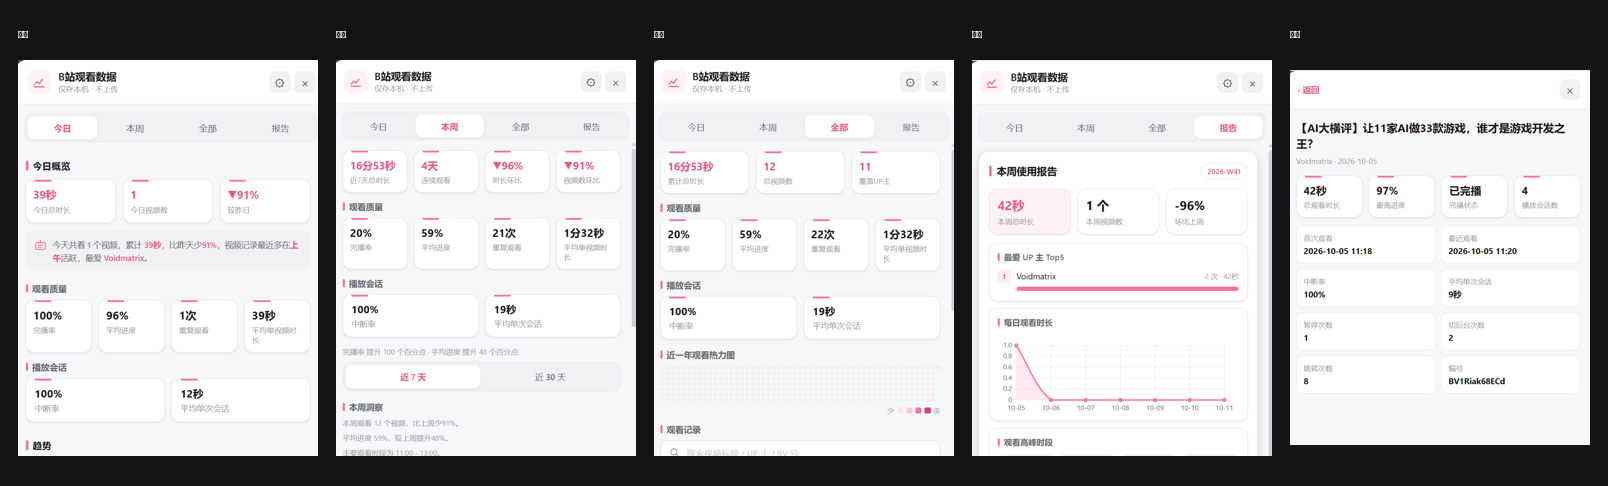
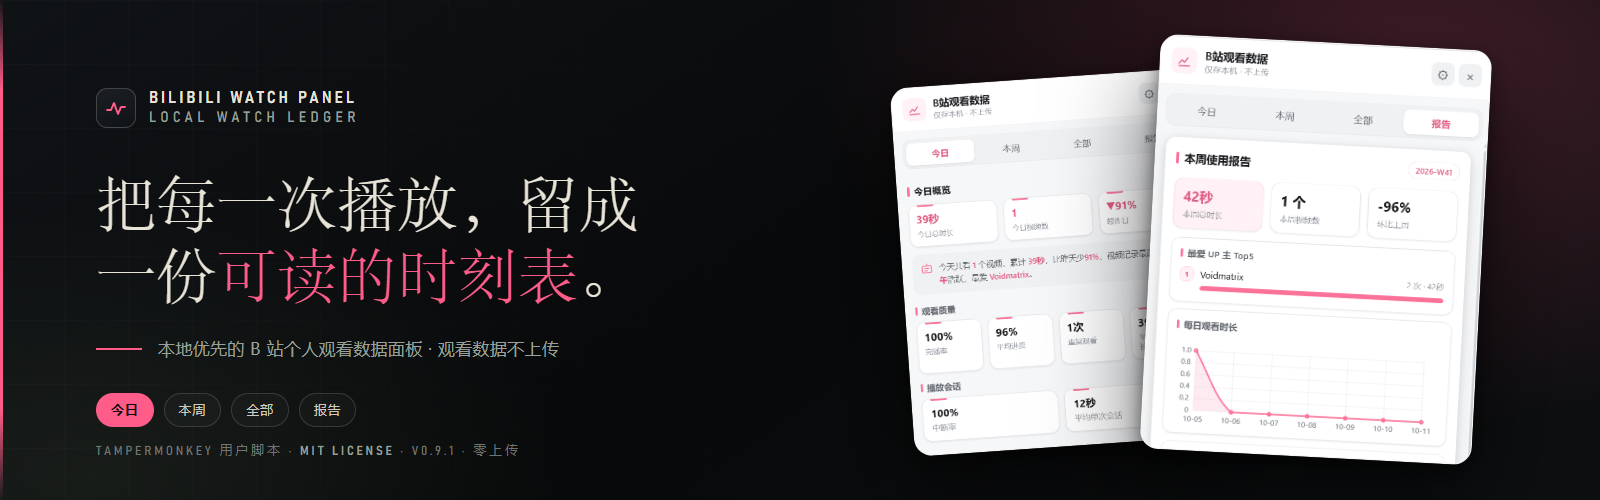
docs: 重写插件项目自述并替换横幅

diff --git a/README.md b/README.md
@@ -1,12 +1,6 @@
 <p align="center">
-  <img src="./docs/assets/banner.png?v=20261005" alt="Bilibili Watch Panel 项目封面">
-</p>
-
-# Bilibili Watch Panel
-
-<p align="center">
-  <strong>本地优先的 B 站个人观看数据面板</strong><br>
-  在不上传观看数据的前提下，记录观看行为、分析观看质量，并生成一份可读的本周使用报告。
+  <strong>Bilibili Watch Panel</strong><br>
+  本地优先的 B 站观看数据统计与可视化 Tampermonkey 用户脚本
 </p>
 
 <p align="center">
@@ -17,192 +11,135 @@
 </p>
 
 <p align="center">
-  <a href="https://gavin-gwj.github.io/bilibili-watch-panel/">在线预览</a> ·
-  <a href="https://bilibili-watch-panel.liuyigavin2025.workers.dev">Cloudflare 备用地址</a> ·
-  <a href="./bilibili-watch-panel.user.js">查看用户脚本</a> ·
+  <a href="https://gavin-gwj.github.io/bilibili-watch-panel/">在线展示</a> ·
+  <a href="https://bilibili-watch-panel.liuyigavin2025.workers.dev">备用展示地址</a> ·
+  <a href="./bilibili-watch-panel.user.js">安装脚本</a> ·
   <a href="./CHANGELOG.md">版本记录</a>
 </p>
 
 ---
 
-## 这是什么？
+## 项目简介
 
-Bilibili Watch Panel 是一个**纯本地运行的 Tampermonkey 用户脚本**。它把分散在 B 站观看过程中的信息，整理成一个轻量的侧边数据面板：
+Bilibili Watch Panel 是一个运行在 B 站页面上的 Tampermonkey 用户脚本。它会记录你实际观看视频时的播放进度，并在浏览器本地整理成可查询的观看档案。
 
-- 看了多久：今日、本周、全部累计时长（含番剧、课程）
-- 看了什么：视频数量、分 P / 分集记录、近一年观看热力图
-- 看谁的：UP 主排行、观看次数与时长占比
-- 看得怎么样：完播率、平均进度、重复观看和有效观看时长
-- 怎么变化：播放会话、中断率、每日趋势与本周报告
+它适合想知道下面这些问题的人：
 
-> 截图中的数据来自本机浏览器示例，仅用于展示界面；脚本不会读取或上传其他用户的数据。
+- 我今天、本周和累计看了多久？
+- 最近看了哪些视频、番剧、课程和分 P？
+- 哪些 UP 主占用了最多观看时间？
+- 我的完播率、平均进度和重复观看情况怎么样？
+- 最近的观看节奏和播放会话是否稳定？
 
-## 展示页的显示偏好
-
-展示页是零依赖的单文件页面，顶栏右上角提供两组显示偏好：
-
-- **白天 / 黑夜**：月亮与太阳图标切换主题。页面颜色全部由设计令牌驱动，浅色主题不是简单地把背景换成白色，而是一整套材质重排：底色改为中性的 `#f4f2ee` 暖白，卡片改用纯白表面并以两级投影浮起，描边退到近乎不可见，主按钮改用更深的 `#d6245f` 以保证白字对比度达标。
-- **中文 / EN**：按钮上的 `中` / `EN` 表示当前语言，点击即可切换；页面文案、`<title>`、描述与数据面板示例都会一起更新。
-
-没有手动选择过时，页面会跟随系统：主题读取 `prefers-color-scheme`，语言读取浏览器语言。手动切换后会写入 `localStorage`（`bwp-theme` / `bwp-lang`），刷新和下次访问都会保持。
-
-### 底部区域的排版
-
-页脚没有和正文共用 `1600px` 的宽容器，而是收窄到 `1180px` 的 `.footer-shell` 单独居中，并把纵向间距全部对齐到 4pt 网格（`padding` 104 / 56、底部条 `margin-top` 88、`padding-top` 28），因此内容不会贴到视口边缘。1440px 视口下左右各留 202px，1920px 下各留 458px，2560px 与 3440px 下容器始终被限制在 1180px 并保持居中；390px 手机下左右仍有 20px 留白，底部条改为纵向堆叠，两列链接不会挤压或换行。
-
-### 无障碍与对比度
-
-页面所有正文、弱化文字、图标与焦点环都按 WCAG 校验过，深浅两套主题均达标：
-
-- **正文与弱化文字**：全页扫描两个主题下**零个**文本节点低于 4.5:1（大字 3:1）。原先用作弱化文字的 `#65645f` / `#7b7d84` 只有 3.36:1 / 3.68:1，已分别调到 `#8b8a83` / `#6a6d76`。
-- **票根面板**：底色是浅色（两种主题都是），故单列 `--preview-meta`，不跟随深色页面的 `--meta-dim`。
-- **焦点环**：内圈用主题色、外圈套一圈页面底色光晕，落在深底、浅底或粉色按钮上都能看清，最差 3.51:1。自身就是粉底的元素（跳过链接、主按钮）改用页面底色实心环——深色主题下白环压在 `#ff5c8a` 上最高只能到 2.94:1，所以改用了近黑环，达到 6.66:1。
-- **图标**：`.board-title svg` 改用文本色令牌后由 2.63:1 升到 5.35:1。
-- **动画**：`prefers-reduced-motion: reduce` 时背景动效与全部过渡停止。
-
-## 从页面到面板
-
-在任意 B 站页面右侧，脚本提供一个可拖动的粉色浮动入口。点击后打开侧边面板；入口位置会在本地记忆，并在浏览器缩放或窗口尺寸变化后自动重新吸附到当前视口内。
-
-## 界面一览
-
-> 下面的截图都取自本机浏览器的演示记录，数值为**示例数据**，仅用于说明界面结构。
-
-<table>
-  <tr>
-    <td width="50%" valign="top">
-      <img src="./docs/screenshots/panel-today.png?v=20261005" alt="今日数据面板">
-      <h3>今日：现在的观看状态</h3>
-      <p>今日总时长、视频数量、较昨日变化，以及完播率、平均进度、重复观看与播放会话状态。</p>
-    </td>
-    <td width="50%" valign="top">
-      <img src="./docs/screenshots/panel-week.png?v=20261005" alt="本周数据面板">
-      <h3>本周：一周的观看节奏</h3>
-      <p>近 7 / 30 天趋势、连续观看天数、环比变化、质量指标与本周洞察。</p>
-    </td>
-  </tr>
-  <tr>
-    <td width="50%" valign="top">
-      <img src="./docs/screenshots/panel-all.png?v=20261005" alt="全部数据面板">
-      <h3>全部：长期观看档案</h3>
-      <p>累计时长、视频总数、覆盖 UP 主、近一年热力图，以及可搜索筛选的完整记录。</p>
-    </td>
-    <td width="50%" valign="top">
-      <img src="./docs/screenshots/panel-report.png?v=20261005" alt="本周使用报告">
-      <h3>报告：一页式周报</h3>
-      <p>把本周总览、最爱 UP 主 Top5、每日时长与高峰时段整理成一张适合保存的报告。</p>
-    </td>
-  </tr>
-  <tr>
-    <td width="50%" valign="top">
-      <img src="./docs/screenshots/panel-detail.png?v=20261005" alt="单条观看记录详情">
-      <h3>详情：单条记录展开</h3>
-      <p>点开任意一条记录，查看总观看时长、最高进度、完播状态、播放会话、暂停与跳转次数。</p>
-    </td>
-    <td width="50%" valign="top">
-      <h3>在这些截图中可以看到</h3>
-      <p>列表、指标卡、趋势图、热力图与详情抽屉共用同一套设计令牌与浅灰工作台配色，切换视图时整块面板会一起更新，而不是只替换某一张卡片。</p>
-      <p>截图中的秒数、占比与视频标题都来自演示记录，不代表任何真实用户的使用水平，也不作为产品效果承诺。</p>
-    </td>
-  </tr>
-</table>
-
-## 程序设计自述
-
-### 1. 本地优先：数据只在浏览器里流动
-
-脚本采用 Tampermonkey 的本地存储能力保存观看记录，不建立账号、不上传数据、不设置服务端。数据流可以概括为：
-
-```text
-B站页面公开信息
-        │
-        ▼
-视频事件采集 → 本地记录合并 → 统计口径计算 → Shadow DOM 面板渲染
-                                      │
-                                      ├─ JSON 导出 / 导入
-                                      └─ 本周报告图片导出
-```
-
-脚本只在视频页处理播放进度；首页、动态页等其他页面可以打开面板查看数据，但不会因为页面上的内嵌视频而写入观看记录。
-
-### 2. 以播放事件为核心，而不是用定时器猜测
-
-观看时长来自 `video.currentTime` 的实际推进量：暂停、卡顿、切到后台和缓冲不会被伪装成有效观看时长。v0.7 起，每条记录还会保存已结束播放会话的：
-
-- 开始时间与结束时间
-- 会话内有效观看秒数
-- 暂停次数、切后台次数和跳转次数
-- 自然结束、暂停、离开页面等结束原因
-
-这样做的好处是，统计结果能够区分“打开过视频”和“真正观看过视频”，并支持中断率、平均单次会话等质量指标。
-
-### 3. Shadow DOM 隔离界面样式
-
-面板挂载在独立的 Shadow DOM 中，颜色、圆角、阴影、间距和字体由设计令牌统一管理。这样既能保持 Bilibili Studio 风格的浅灰工作台视觉，也能减少 B 站页面自身 CSS 对面板的干扰。
-
-面板由四个互补的视图组成：
-
-| 视图 | 解决的问题 | 主要信息 |
-| --- | --- | --- |
-| 今日 | 我今天看了什么？ | 时长、视频数、质量、会话、趋势 |
-| 本周 | 我这周的节奏如何？ | 近 7 / 30 天、连续观看、环比、洞察 |
-| 全部 | 我的长期观看档案是什么？ | 累计统计、热力图、搜索、记录详情 |
-| 报告 | 如何快速回顾这一周？ | 总览、Top5 UP 主、每日图表、总结 |
-
-### 4. 面向长期使用的数据兼容策略
-
-脚本使用 schema 版本管理本地数据。升级时会兼容已有旧记录，补齐缺失字段，但不会根据旧记录的累计秒数虚构历史完播或播放会话；JSON 导入则采用合并与去重策略，避免重复导入造成重复统计。
+项目不提供账号体系，不把观看记录上传到服务器，也不会替其他用户批量采集数据。
 
 ## 核心功能
 
-### 观看数据
+### 观看记录
 
-- 今日、本周、全部和报告四个 Tab
-- 今日 / 本周 / 累计观看时长与视频数
-- 完播率、平均进度、重复观看、平均单视频时长
-- 播放会话数、会话中断率、平均单次有效观看时长
-- UP 主排行、每日时长趋势、近一年观看热力图
-- 观看记录搜索、排序、筛选和详情抽屉
+- 统计今日、本周、全部和本周报告
+- 记录视频、番剧、课程以及多 P 视频的分集信息
+- 统计观看时长、视频数量、完播率、平均进度和重复观看
+- 记录播放会话、暂停次数、切后台次数、跳转次数和结束原因
+- 查看 UP 主排行、每日趋势、近一年热力图和观看记录详情
 
 ### 数据管理
 
-- **导出 JSON**：下载 `bwp-backup-YYYY-MM-DD.json` 本地备份
-- **导入 JSON**：合并记录、补齐信息、去重播放会话
-- **导出报告图片**：生成 `bwp-week-report-YYYY-Www.png`
-- **清空数据**：双重确认，避免误操作
-- **自动更新**：通过 `@updateURL` / `@downloadURL` 检查新版本
+- 导出 JSON 本地备份
+- 导入 JSON 并合并重复记录与播放会话
+- 导出本周报告 PNG
+- 清空记录前二次确认
+- 记录数量较大时自动归档，并保留归档提示
+
+### 使用体验
+
+- 可拖动的悬浮入口
+- 面板宽度、主题、按钮尺寸和快捷键设置
+- `Alt + Shift + W` 快捷键打开或关闭面板
+- 分层 `Esc` 关闭详情、设置和面板
+- 只读数据健康检查
+
+## 界面预览
+
+下面的横幅展示了插件面板的主要视图。在线展示页只是项目的可视化演示，不是数据服务端；观看记录始终保存在当前浏览器中。
+
+<p align="center">
+  <img src="./docs/assets/banner.png?v=20261005-plugin" alt="Bilibili Watch Panel 插件界面预览">
+</p>
+
+面板包含四个主要视图：
+
+| 视图 | 主要内容 |
+| --- | --- |
+| 今日 | 当前观看时长、视频数、质量指标和播放会话 |
+| 本周 | 近 7 / 30 天趋势、连续观看、环比和本周洞察 |
+| 全部 | 累计统计、热力图、搜索和完整观看记录 |
+| 报告 | 本周总览、UP 主排行、每日时长和高峰时段 |
+
+## 工作原理
+
+脚本只在视频播放页采集播放事件，并通过 `video.currentTime` 的真实推进计算有效观看时长：
+
+```text
+B 站公开页面信息
+        │
+        ▼
+播放事件采集 → 本地记录合并 → 统计指标计算 → Shadow DOM 面板渲染
+                         │
+                         ├─ JSON 导出 / 导入
+                         └─ 本周报告 PNG 导出
+```
+
+- 暂停、卡顿、切换后台和未发生真实推进的时间不会被当作有效观看时长。
+- 手动向前跳转不会被误记为重复观看；只有回到本次已观看区间并继续播放才计入重看。
+- 普通视频、番剧和课程使用不同的媒体标识，多 P 视频的每个分 P 独立统计。
+- 本地数据使用 schema 版本管理，升级时会兼容旧记录并补齐缺失字段。
+
+## 隐私与权限
+
+- 只匹配 `https://*.bilibili.com/*` 页面。
+- 使用 Tampermonkey 的 `GM_getValue`、`GM_setValue` 和 `GM_deleteValue` 保存本地数据。
+- 使用 Chart.js 绘制统计图表，使用 html2canvas 导出报告图片。
+- 不建立账号，不上传观看记录，不设置项目服务端。
+- 只读取 B 站页面已经公开加载的信息，不批量爬取、不破解、不绕过会员或付费机制。
+
+卸载脚本或清除浏览器扩展数据后，本地记录会消失。建议定期使用「导出 JSON」备份。
 
 ## 安装
 
-1. 安装浏览器扩展 **篡改猴 / Tampermonkey**。
+1. 安装浏览器扩展 [Tampermonkey](https://www.tampermonkey.net/)。
 2. 打开 [`bilibili-watch-panel.user.js`](./bilibili-watch-panel.user.js)。
-3. 点击右上角 **Raw**，Tampermonkey 会打开安装页。
-4. 安装完成后打开任意 B 站页面，点击右侧粉色浮动按钮。
-5. 在视频页播放视频后，面板会开始记录观看数据。
+3. 点击 GitHub 页面右上角的 **Raw**，Tampermonkey 会打开安装页。
+4. 确认安装后打开任意 B 站页面。
+5. 点击页面右侧的粉色悬浮按钮，开始查看面板。
 
-也可以直接下载脚本。
+脚本支持自动更新，更新地址指向本仓库的 `main` 分支：
 
-## 隐私与合规
+```text
+https://raw.githubusercontent.com/Gavin-gwj/bilibili-watch-panel/main/bilibili-watch-panel.user.js
+```
 
-- 只统计当前浏览器中本人的观看行为。
-- 数据只存储在 Tampermonkey 的本地存储中。
-- 不上传观看数据，不建立服务器账号体系。
-- 不批量爬取，不破解或绕过会员、付费机制。
-- 只读取页面已经公开加载的信息，不干扰 B 站正常功能与计费体系。
-- 除页面信息缺失时的一次性视频信息 API 兜底请求外，不额外发送批量请求；兜底结果会在本地缓存 7 天。
+## 开发与验证
 
-> 卸载脚本或清除浏览器扩展数据后，本地记录会消失。建议定期使用「导出 JSON」备份。
+仓库中的逻辑回归测试可以直接使用 Node.js 运行：
+
+```bash
+node tests/v0.8.test.cjs
+node tests/v0.9.test.cjs
+node tests/watch-repeat.test.cjs
+```
+
+当前版本为 `0.9.1`，重点覆盖多媒体类型解析、旧数据迁移、播放时长统计和重复观看判断。
 
 ## 常见问题
 
 | 问题 | 回答 |
 | --- | --- |
-| 数据存在哪里？ | 只在本机浏览器的 Tampermonkey 扩展存储中，仓库和服务器都收不到。 |
-| 为什么时长比实际看的少？ | 脚本只统计 `video.currentTime` 的真实推进；暂停、卡顿、缓冲和切后台不计入。 |
-| 为什么拖动进度条没有增加「重复观看」？ | 只有回退到本次已看过的片段并继续播放才计一次；手动向前跳转、跳到没看过的位置不计入。 |
-| 如何迁移到新设备？ | 在旧设备导出 JSON，在新设备安装脚本后使用「导入 JSON」合并。 |
-| B 站改版后没有数据怎么办？ | 页面选择器集中在脚本的 `SELECTORS` 常量区，可针对改版更新选择器。 |
-| 浏览器缩放后按钮不见了怎么办？ | v0.7.1 已加入视口重定位逻辑；刷新页面后按钮会自动回到当前可视区域。 |
+| 数据存在哪里？ | 存在当前浏览器的 Tampermonkey 本地存储中，仓库和展示页都收不到观看记录。 |
+| 为什么时长比实际看的少？ | 只统计视频播放进度真实推进的时间，暂停、卡顿、后台和缓冲不会计入。 |
+| 为什么拖动进度条没有增加重看？ | 向前跳转或跳到未观看位置不会计入；回到本次已观看区间并继续播放才会计入。 |
+| 如何迁移到新设备？ | 在旧设备导出 JSON，在新设备安装脚本后使用「导入 JSON」。 |
+| B 站改版后没有数据怎么办？ | 刷新页面并检查脚本是否更新；如果仍然异常，请提交包含页面类型和控制台信息的 Issue。 |
 
 ## License
 
